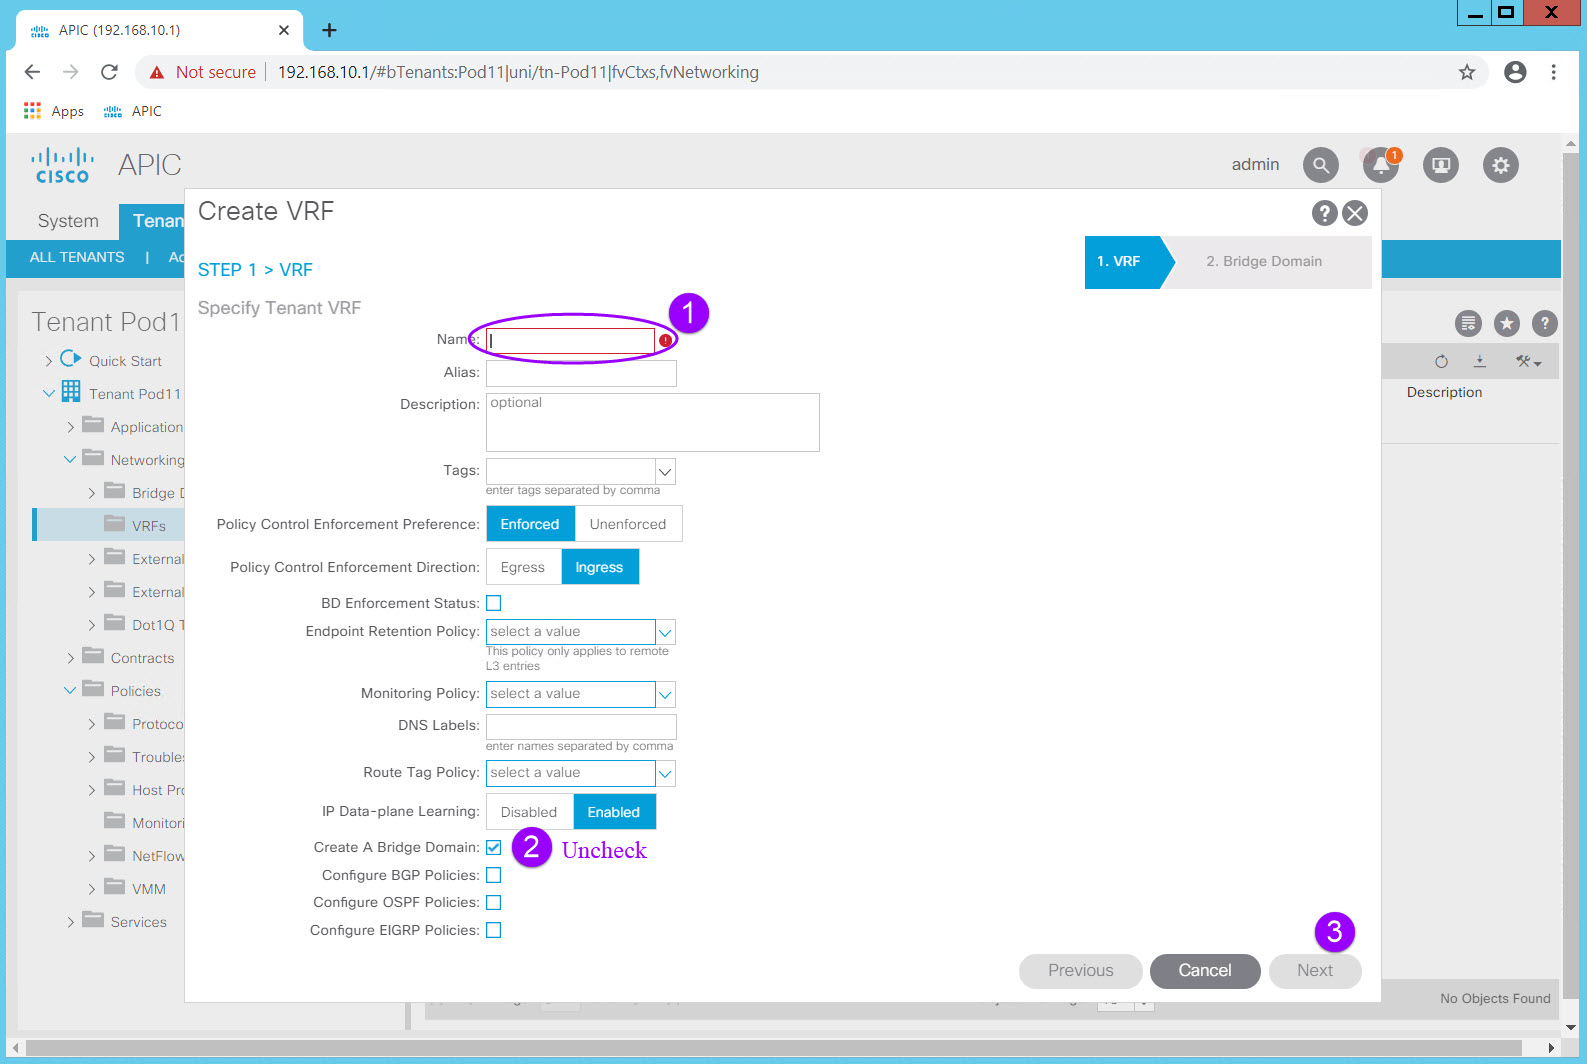
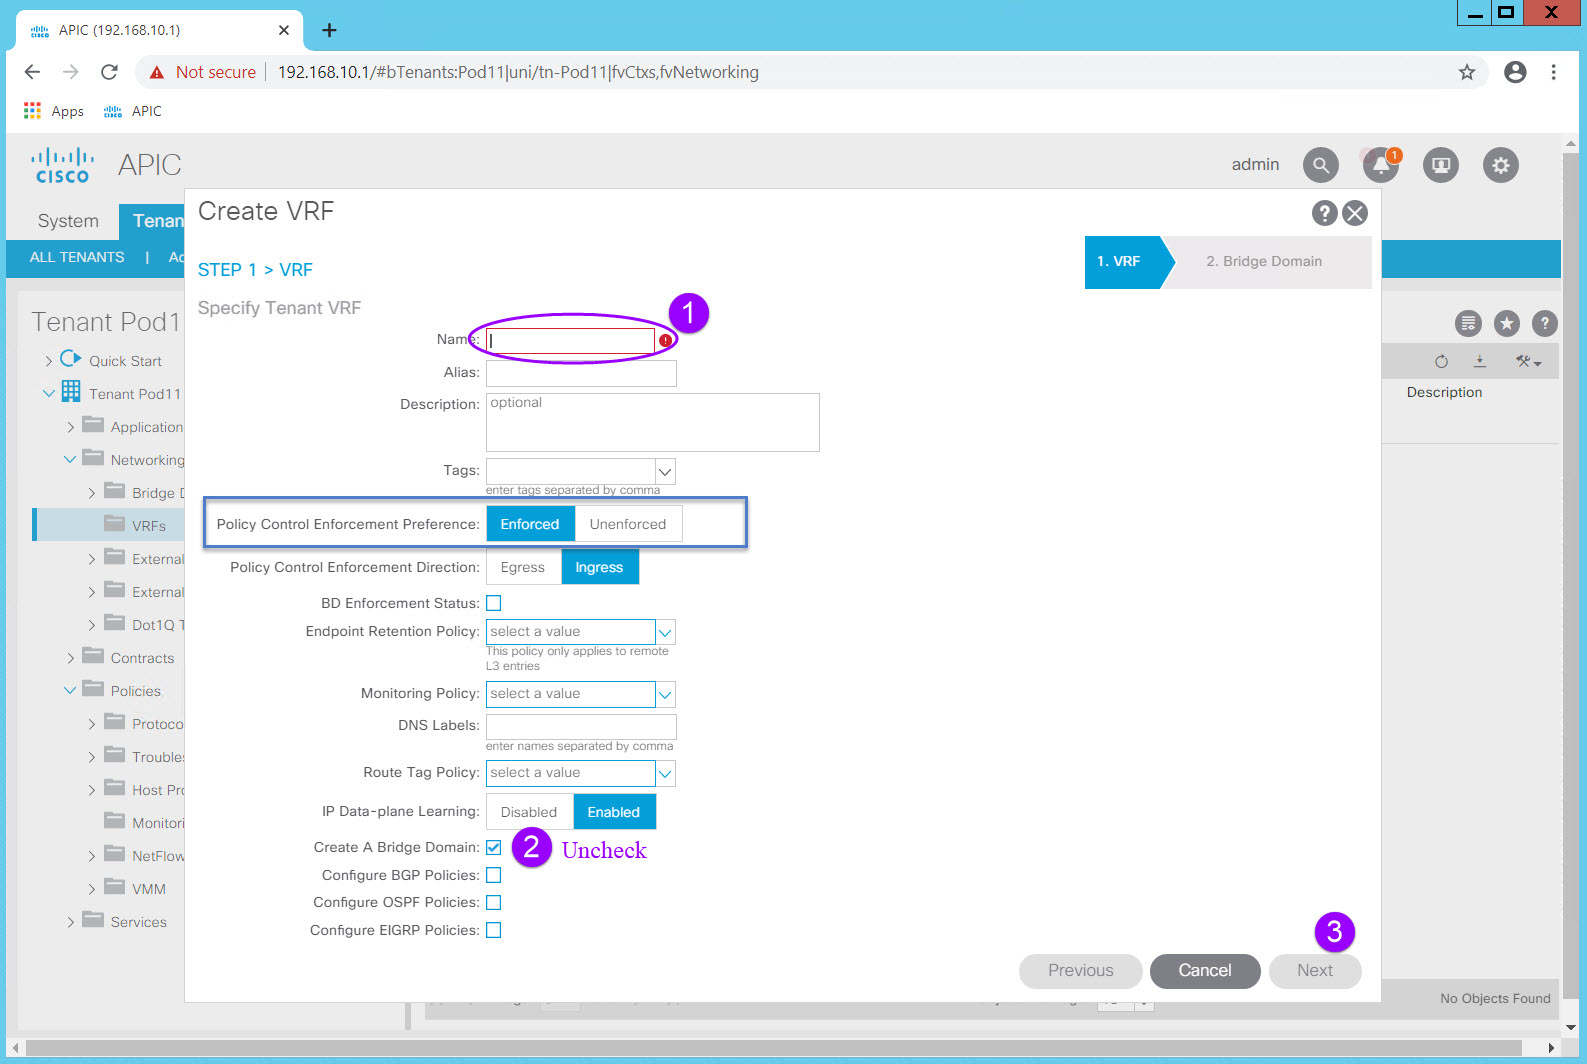
Deployed 6ba955a with MkDocs version: 1.1.2

Changed region(s): [[0.1235, 0.4652, 0.494, 0.5273]]

diff --git a/03_lab_tenant_constructs/index.html b/03_lab_tenant_constructs/index.html
@@ -670,13 +670,27 @@
 <p>The <strong>Create Tenant</strong> dialog box will appear.  The only required field is the Tenant name.</p>
 <p>Enter your Tenant name in the <strong>Name</strong> field and click Submit.</p>
 <p>Notice that here you can also associate a Monitoring Policy as well as Security Domains.  If this Tenant had special access requirements, then here is where you can associate a specific Security Domain policy with the Tenant.  This can be done after the Tenant is created.</p>
-<p><img alt="03_addTenantDialog" src="D:\Dropbox (Indigo Wire Networks)\scripts\training\2020\aci4_labguide\docs\images\03_addTenantDialog.jpg" /></p>
+<p><img alt="03_addTenantDialog" src="../images/03_addTenantDialog.jpg" /></p>
 <p>Because we left the "Take me to this tenant when I click finish" option checked, we will be taken to the new tenant page once Submit is clicked.  </p>
 <p>From here navigate to <strong>Networking &gt; VRFs </strong> and right click on the VRF Folder icon.  Select <strong>Create VRF</strong> and the Create VRF dialog will appear.</p>
-<p><img alt="03_addTenantVRF" src="D:\Dropbox (Indigo Wire Networks)\scripts\training\2020\aci4_labguide\docs\images\03_addTenantVRF.jpg" /></p>
+<p><img alt="Create VRF Options" src="../images/03_createVRF.jpg" /></p>
+<p>In the <strong>Create VRF</strong> dialog, enter the VRF name, uncheck the "Create A Bridge Domain" check box, and Click "Finish".  Once you uncheck the "Create A Bridge Domain" check box the <strong>Next</strong> option becomes <strong>Finish</strong> as there is no next step.
+All other values remain unchanged and at their default settings.</p>
+<p>As you know, ACI behaves in a default-deny,  "white list" security model, so that only the required access is defined for connectivity.   In a "black list" model, only the "bad" traffic is denied which assumes you know what the "bad" traffic is.   The default-deny, only allow what is needed ("white list"), is by far the more secure.   ACI does give you the option of disabling this behavior in several ways, one of which is here a the VRF level.  Note that the <strong>Policy Control Enforcement Preference</strong> is <strong>Enforced</strong> by default.   Should you have a need to disable this behavior (NOT RECOMMENDED), you can do so by setting  <strong>Policy Control Enforcement Preference</strong> to <strong>Unenforced</strong>.  This is rarely done in production but may be a useful troubleshooting tool.</p>
+<p><img alt="03_addTenantVRF" src="../images/03_addTenantVRF.jpg" /></p>
+<p>Because this VRF was created within the Tenant context it is now associated with the Tenant.  </p>
 <h4 id="step-2-create-a-bridge-domain-and-subnets">Step 2: Create a Bridge Domain and Subnets<a class="headerlink" href="#step-2-create-a-bridge-domain-and-subnets" title="Permanent link">&para;</a></h4>
-<p>In traditional networking a Vlan inherently defines a broadcast domain, an encapsulation, and optionally a subnet.  We don't typically think of those items as separate functions but in ACI you must.  In its basic form, a Bridge Domain defines a broadcast domain as well as flooding behavior (we don't call this out specifically in traditional network because we dont' have any other options but in ACI we do).  ACI can optimize flooding behavior and reduce broadcasts and so a Bridge Domain allows you to define how you want flooding to behave for a particular Bridge Domain (BD).   It is also common to define a subnet within the Bridge Domain thereby creating the foundation for a Layer 3 "Vlan".  Notice that you don't define the encapsulation within the Bridge Domain. That takes place within an EPG either statically or dynamically depending on the need.  </p>
+<p>In traditional networking a Vlan inherently defines a broadcast domain, an encapsulation, and optionally a Layer 3 subnet.  We don't typically think of all of those items as separate functions but in ACI you must.  In its basic form, a Bridge Domain defines a broadcast domain as well as flooding behavior (we don't call this out specifically in traditional network because we don't have any other options, but in ACI we do).  ACI can optimize flooding behavior and reduce broadcasts and so a Bridge Domain allows you to define how you want flooding to behave for a particular Bridge Domain (BD).   It is also common to define a subnet within the Bridge Domain thereby creating the foundation for a Layer 3 "Vlan".  Notice that you don't define the encapsulation within the Bridge Domain. That takes place within an EPG either statically or dynamically depending on the need.  </p>
 <p>A Bridge Domain can have multiple subnets and contains settings which instantiate the subnet's gateway on the ACI Fabric.</p>
+<p>Navigate to <strong>Networking &gt; Bridge Domains </strong> and right click on the Bridge Domain Folder icon.  Select <strong>Create Bridge Domain</strong> and the Create Bridge Domain dialog will appear.</p>
+<p><img alt="03_BD_CreateDialog" src="../images/03_BD_CreateDialog.jpg" /></p>
+<p><img alt="03_BD_CreateDialog2_Forwarding" src="../images/03_BD_CreateDialog2_Forwarding.jpg" /></p>
+<p><img alt="03_BD_CreateDialog3_Forwarding" src="../images/03_BD_CreateDialog3_Forwarding.jpg" /></p>
+<p><img alt="03_BD_CreateDialog4_Layer3" src="../images/03_BD_CreateDialog4_Layer3.jpg" /></p>
+<p><img alt="03_BD_CreateDialog5_SubnetDialog" src="../images/03_BD_CreateDialog5_SubnetDialog.jpg" /></p>
+<p><img alt="03_BD_CreateDialog6_SubnetDialog" src="../images/03_BD_CreateDialog6_SubnetDialog.jpg" /></p>
+<p><img alt="03_BD_CreateDialog7_Advanced" src="../images/03_BD_CreateDialog7_Advanced.jpg" /></p>
+<p><img alt="03_BD_CreateDialog8_Completed" src="../images/03_BD_CreateDialog8_Completed.jpg" /></p>
 <h4 id="step-3-create-an-application-profile-and-epgs">Step 3: Create an Application Profile and EPGs<a class="headerlink" href="#step-3-create-an-application-profile-and-epgs" title="Permanent link">&para;</a></h4>
 <p>An Application Profile is on organizational or grouping construct only.  It is a container or folder for EPGs and their associations.</p>
 <p>An EndPoint Group (EPG) is a container for endpoints that share some commonality.  In many cases, these are endpoints that share a common security profile.  This is an important distinction to make because Contracts (think of these as ACLs which act on EPGs rather than subnets and IP addresses) are applied to EPGs.</p>
